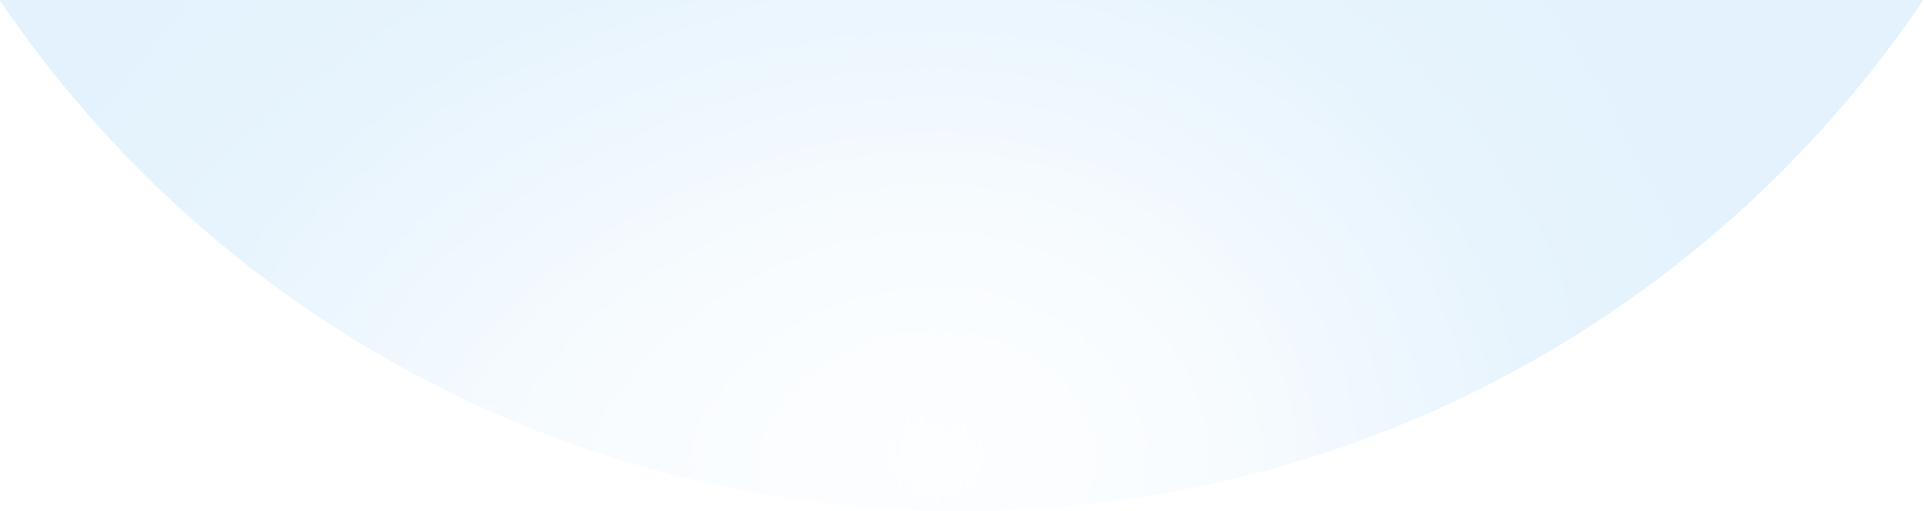
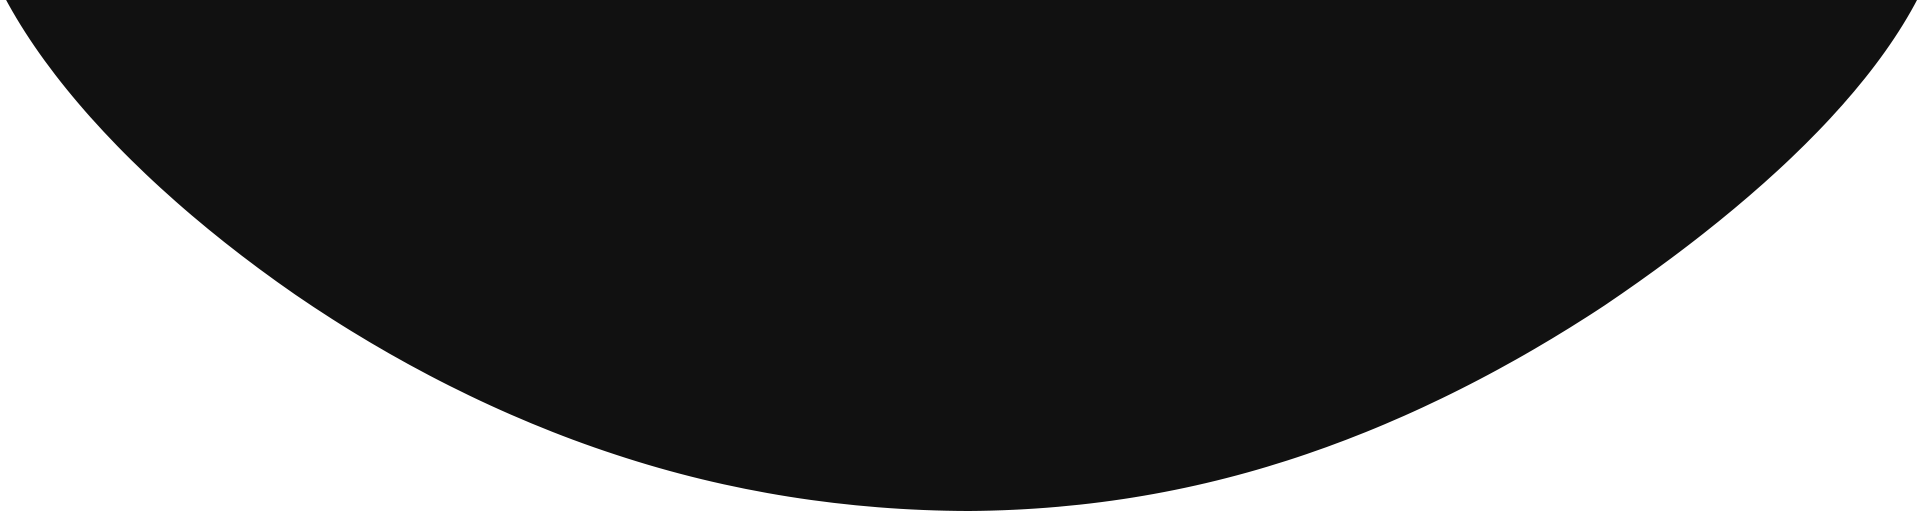
mudanças na sessão principal

diff --git a/src/views/mainView.vue b/src/views/mainView.vue
@@ -7,6 +7,7 @@ window.addEventListener("scroll", function(){
 </script>
 
 <template>
+  <div class="bg-head relative">
   <header class="top-0 z-50 w-full">
     <nav class="relative navbar">
       <div class="flex justify-between items-center p-3">
@@ -45,7 +46,7 @@ window.addEventListener("scroll", function(){
     <h1 class="mainTitle xl:mb-[-10rem]">ESPECIALIDADE DA CASA</h1>
     <img
       alt="Vue logo"
-      class="logo xl:w-[35rem] xl:pt-[-20rem]"
+      class="logo xl:w-[35.5rem]"
       src="../img/fotoprincipalsemciruclo.png"
     />
   </div>
@@ -207,4 +208,5 @@ window.addEventListener("scroll", function(){
       </span>
     </div>
   </div>
+</div>
 </template>

diff --git a/src/assets/main.css b/src/assets/main.css
@@ -306,19 +306,17 @@ body{
       height: 150px;
       padding-top: 2rem;
     }
-      /* header::before {
-        content: '';
+
+      .bg-head{
         position: absolute;
         top: 0;
         bottom: 0;
-        left: 3.33333333rem;
-        right: 3.33333333rem;
         background-image: url(../img/bg-head.png);
         -webkit-background-size: cover;
         background-size: contain;
         background-repeat: no-repeat;
       }
-     */
+    
 
      .footer{
       background-color: #262626;
